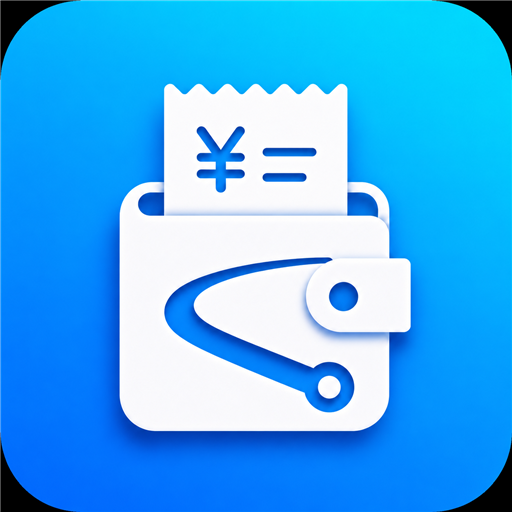
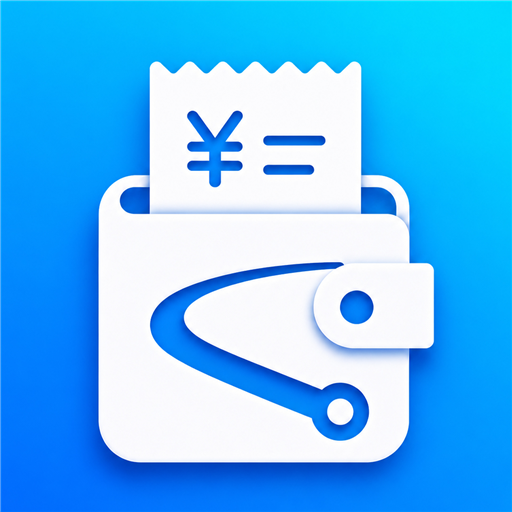
chore: 更新 PWA 图标 v6
- 替换 icon-192.png / icon-512.png 为新设计图标（JPG源）
- manifest.json: icon URL cache 版本 v5 → v6
- index.html: apple-touch-icon v5 → v6

diff --git a/index.html b/index.html
@@ -7,8 +7,8 @@
   <meta name="apple-mobile-web-app-capable" content="yes">
   <meta name="apple-mobile-web-app-status-bar-style" content="default">
   <meta name="apple-mobile-web-app-title" content="消费轨迹">
-  <link rel="apple-touch-icon" href="icon-192.png?v=5">
-  <link rel="manifest" href="manifest.json?v=2">
+  <link rel="apple-touch-icon" href="icon-192.png?v=6">
+  <link rel="manifest" href="manifest.json?v=1">
   <title>消费轨迹</title>
 
   <!-- CSS -->